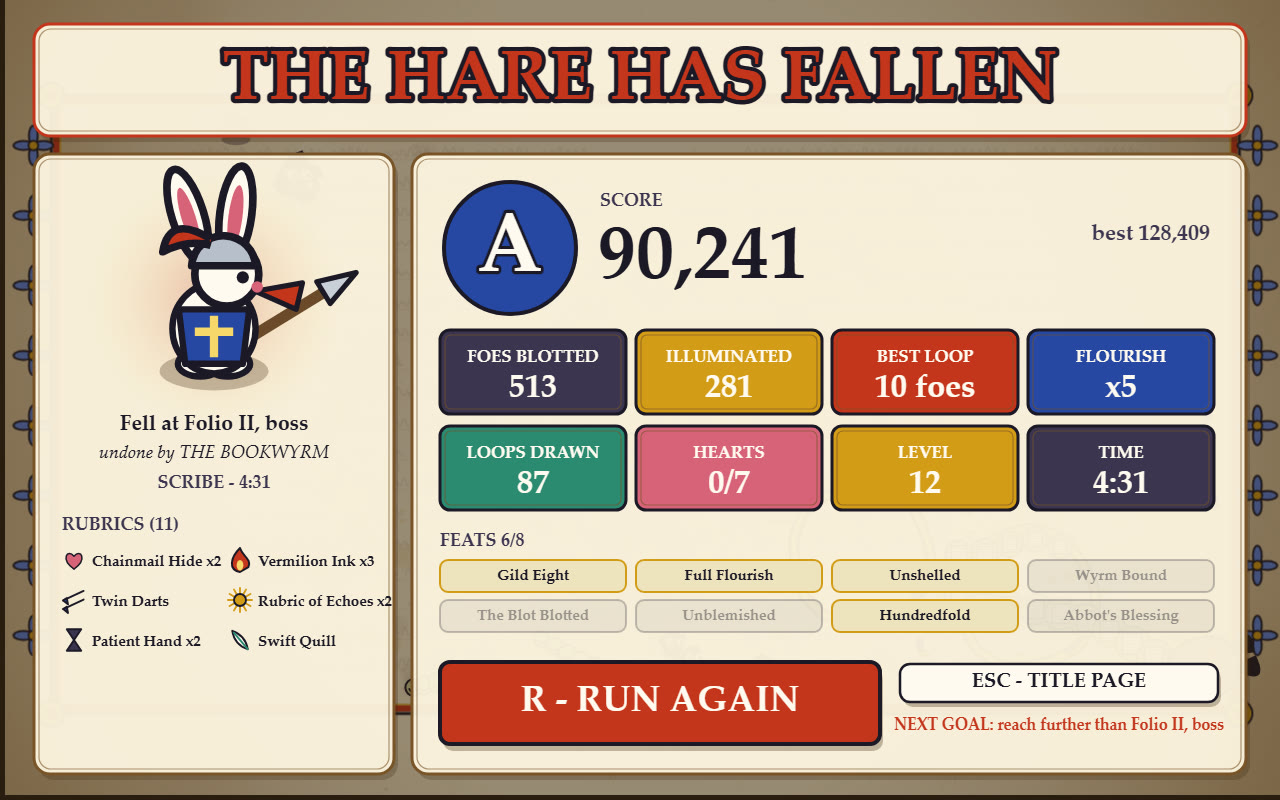
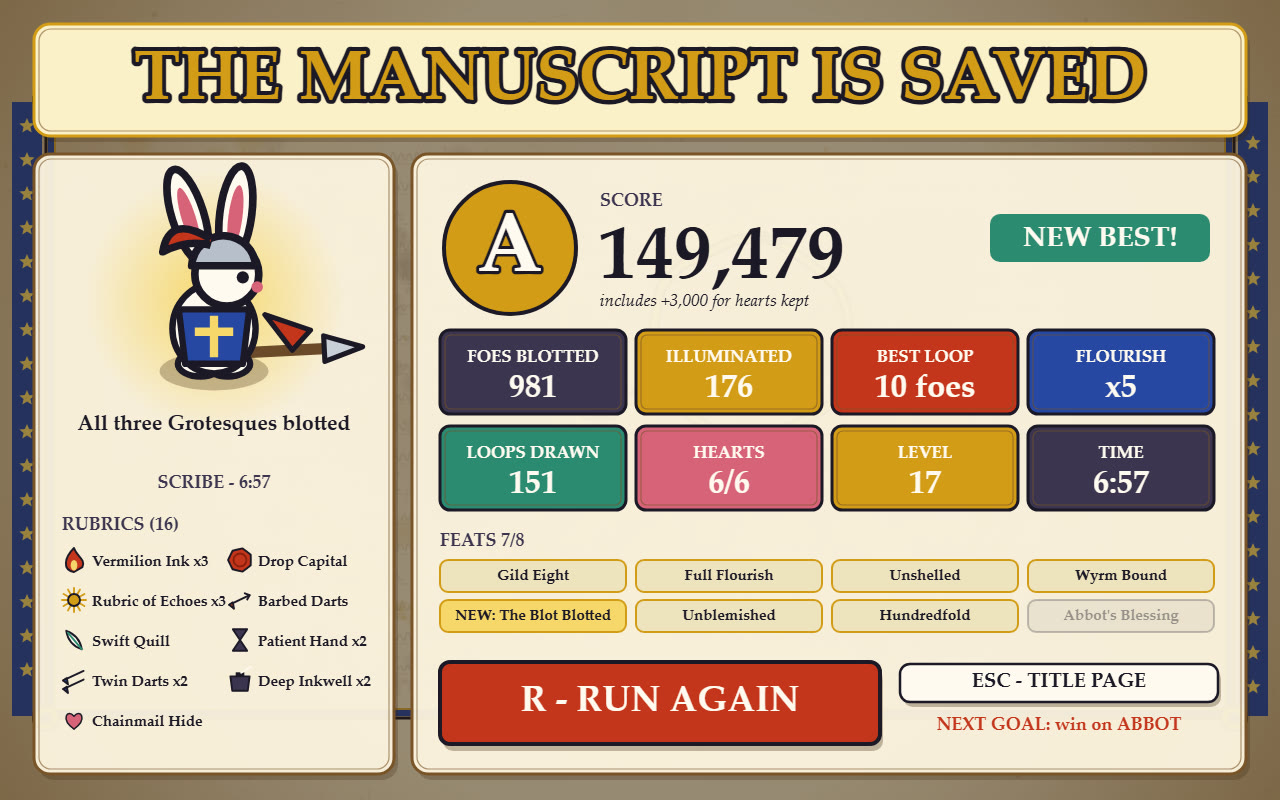
Results shot shows the first fully played seed that saves the manuscript

diff --git a/game/src/shots.js b/game/src/shots.js
@@ -111,8 +111,14 @@ const SCENES = {
   },
   results(ctx, seed, ledger) {
     earlierRuns(ledger, [seed + 400, seed + 401], 'scribe');
-    const game = newGame(seed, 'scribe');
-    playUntil(game, () => false, 900);
+    // the colophon of the first run, from this seed on, that saved the manuscript (every run is played in full)
+    let game = null;
+    for (let s = seed; s < seed + 8; s += 1) {
+      game = newGame(s, 'scribe');
+      playUntil(game, () => false, 900);
+      if (game.run.won) break;
+      recordRun(ledger, summarizeRun(game.run));
+    }
     const summary = summarizeRun(game.run);
     const record = recordRun(ledger, summary);
     playUntil(game, () => false, 0);
